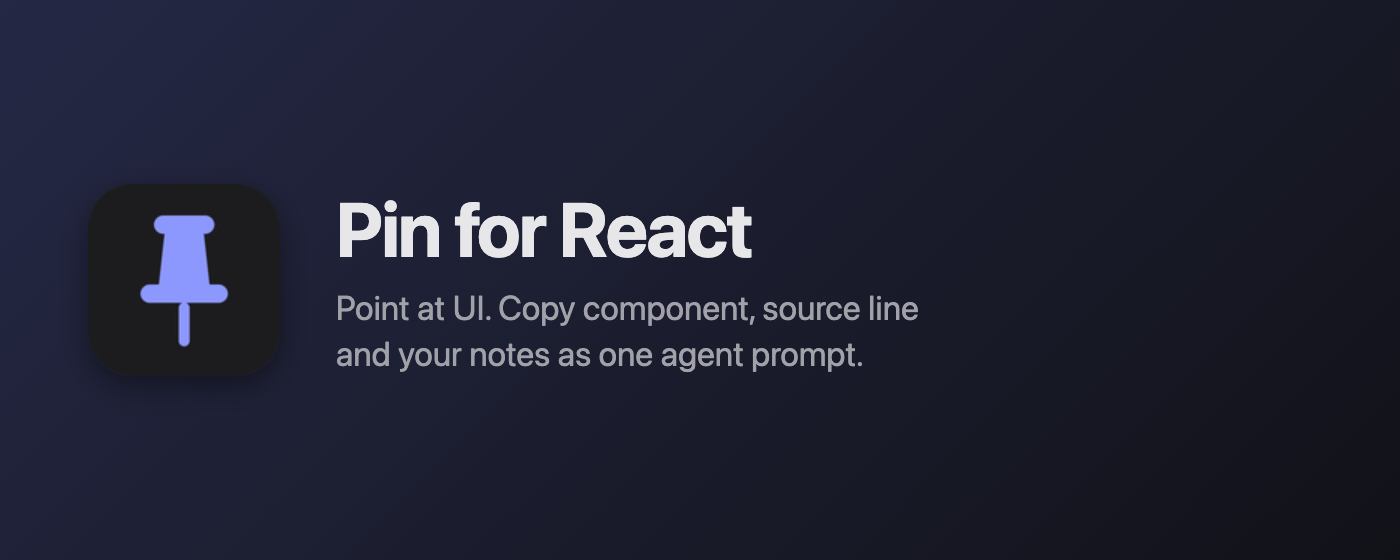
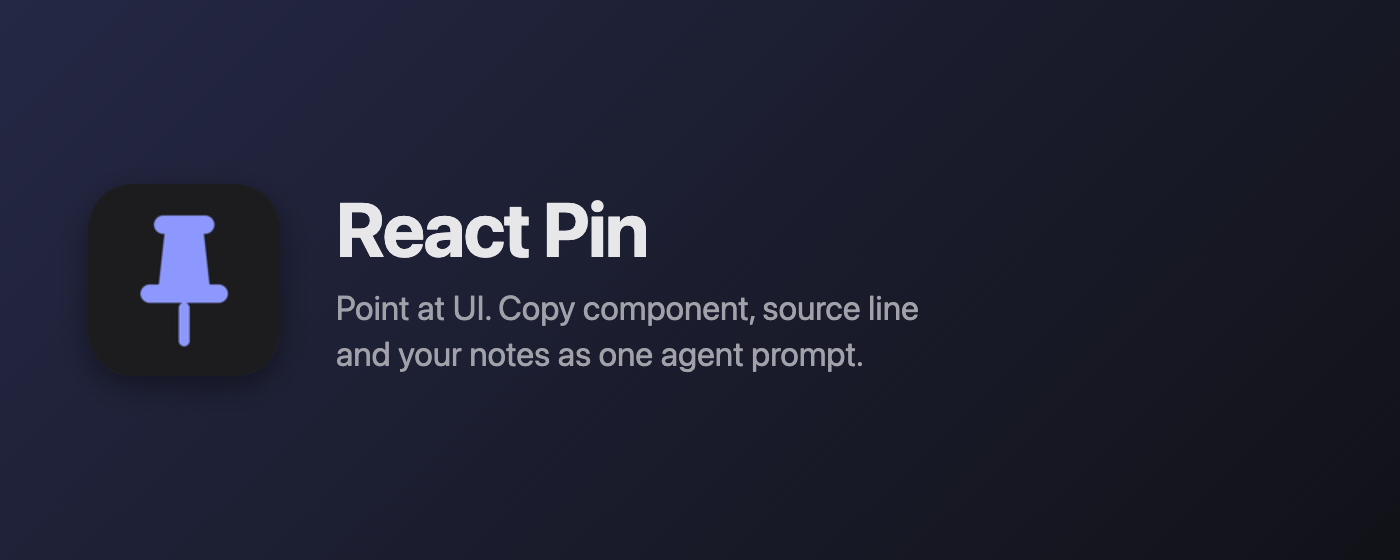
Rename to React Pin

Changed region(s): [[0.2457, 0.3339, 0.5529, 0.4857]]

diff --git a/pin.js b/pin.js
@@ -1,4 +1,4 @@
-// Pin for React: point at UI and hand it to a coding agent. Its island (bottom center, shown on
+// React Pin: point at UI and hand it to a coding agent. Its island (bottom center, shown on
 // local dev servers) has a Pin toggle and can be dragged to any edge; dragging it out of the window
 // hides it for the site, and the extension's toolbar button shows it again (or on any other site).
 //   The toggle shortcut (⌃P on macOS, Alt+Shift+P elsewhere) turns it on or off. While on, hover
@@ -360,7 +360,7 @@
   // Shown when loaded (local dev servers, sites the user enabled, or the toolbar button), unless
   // dragged out on this site (remembered for the origin) or turned off for localhost in the options.
   // The toolbar button shows it again.
-  const HIDDEN = 'pin-for-react:hidden'
+  const HIDDEN = 'react-pin:hidden'
   const hiddenHere = () => {
     try {
       return localStorage.getItem(HIDDEN) === '1'
@@ -439,7 +439,7 @@
 
   // The island sits on one edge of the window (bottom by default) at a fraction along it. Dragging
   // moves it freely; on release it snaps to the nearest edge, and the spot is remembered.
-  const POS = 'pin-for-react:position'
+  const POS = 'react-pin:position'
   const MARGIN = 16
   let pos = { edge: 'bottom', at: 0.5 }
   try {
@@ -655,7 +655,7 @@
   // Settings and shortcut names arrive from bridge.js (asked for on load, resent on change). The
   // first ones decide whether the island shows by itself.
   let first = true
-  document.addEventListener('pin-for-react:settings', e => {
+  document.addEventListener('react-pin:settings', e => {
     try {
       settings = { ...settings, ...JSON.parse(e.detail) }
     } catch {
@@ -669,6 +669,6 @@
     renderBar()
   })
   window.__pin = api
-  document.dispatchEvent(new CustomEvent('pin-for-react:hello'))
+  document.dispatchEvent(new CustomEvent('react-pin:hello'))
   renderBar()
 })()

diff --git a/options.html b/options.html
@@ -3,7 +3,7 @@
 <head>
 <meta charset="utf-8">
 <meta name="viewport" content="width=device-width, initial-scale=1">
-<title>Pin for React options</title>
+<title>React Pin options</title>
 <style>
   :root { color-scheme: light dark; --bg: #f7f7f8; --card: #fff; --text: #1c1c1f; --dim: #6b6b74; --line: #e4e4e7; --accent: #5b67f0 }
   @media (prefers-color-scheme: dark) { :root { --bg: #121214; --card: #1c1c1f; --text: #e7e7ea; --dim: #8d8d95; --line: #2c2c31 } }
@@ -30,7 +30,7 @@
 </head>
 <body>
 <main>
-  <h1><img src="icons/48.png" alt="">Pin for React</h1>
+  <h1><img src="icons/48.png" alt="">React Pin</h1>
   <p class="sub">Point at UI and hand it to a coding agent.</p>
 
   <h2>Shortcuts</h2>
@@ -57,7 +57,7 @@
   </section>
 
   <h2>Privacy</h2>
-  <section><div class="row"><span>Nothing leaves your browser. Pin for React has no servers, analytics or tracking; it only reads the page you point it at and copies text to your clipboard. <a href="https://github.com/maxktz/pin-for-react/blob/main/PRIVACY.md" target="_blank">Privacy policy</a> · <a href="https://github.com/maxktz/pin-for-react" target="_blank">Source</a></span></div></section>
+  <section><div class="row"><span>Nothing leaves your browser. React Pin has no servers, analytics or tracking; it only reads the page you point it at and copies text to your clipboard. <a href="https://github.com/maxktz/react-pin/blob/main/PRIVACY.md" target="_blank">Privacy policy</a> · <a href="https://github.com/maxktz/react-pin" target="_blank">Source</a></span></div></section>
 </main>
 <script src="options.js"></script>
 </body>

diff --git a/bridge.js b/bridge.js
@@ -9,9 +9,9 @@
       chrome.storage.sync.get('settings'),
       chrome.runtime.sendMessage('keys').catch(() => ({})),
     ])
-    document.dispatchEvent(new CustomEvent('pin-for-react:settings', { detail: JSON.stringify({ ...settings, keys }) }))
+    document.dispatchEvent(new CustomEvent('react-pin:settings', { detail: JSON.stringify({ ...settings, keys }) }))
   }
-  document.addEventListener('pin-for-react:hello', send)
+  document.addEventListener('react-pin:hello', send)
   chrome.storage.onChanged.addListener(send)
   send()
 })()

diff --git a/store/listing.md b/store/listing.md
@@ -1,11 +1,11 @@
 # Chrome Web Store listing
 
-Everything the developer dashboard asks for, in order. Upload `dist/pin-for-react-<version>.zip`
+Everything the developer dashboard asks for, in order. Upload `dist/react-pin-<version>.zip`
 (`scripts/build.sh`).
 
 ## Store listing
 
-**Name** (from the manifest): Pin for React
+**Name** (from the manifest): React Pin
 
 **Summary** (from the manifest, 126/132 characters):
 Point at UI in your React dev server and hand it to a coding agent: component, source file:line, and your notes as one prompt.
@@ -42,7 +42,7 @@ HOW IT RUNS
 PRIVATE BY DESIGN
 No servers, accounts, analytics or tracking. It reads the page you point at and writes to your clipboard; nothing leaves your browser.
 
-Open source (MIT): https://github.com/maxktz/pin-for-react
+Open source (MIT): https://github.com/maxktz/react-pin
 
 Not affiliated with Meta or the React team.
 ```
@@ -55,8 +55,8 @@ Not affiliated with Meta or the React team.
 - Marquee promo tile (optional): `marquee-1400x560.png`
 - Promo video (optional, YouTube link only): `docs/demo.mp4` if you upload it to YouTube
 
-**Official URL:** none (needs a verified site). **Homepage URL:** https://github.com/maxktz/pin-for-react
-**Support URL:** https://github.com/maxktz/pin-for-react/issues
+**Official URL:** none (needs a verified site). **Homepage URL:** https://github.com/maxktz/react-pin
+**Support URL:** https://github.com/maxktz/react-pin/issues
 
 ## Privacy practices
 
@@ -77,7 +77,7 @@ Lets developers point at elements of a web page they are building and copy a des
 **Data usage:** check nothing. It does not collect any of the listed data types.
 Certify all three: not sold to third parties; not used for unrelated purposes; not used for creditworthiness or lending.
 
-**Privacy policy URL:** https://github.com/maxktz/pin-for-react/blob/main/PRIVACY.md
+**Privacy policy URL:** https://github.com/maxktz/react-pin/blob/main/PRIVACY.md
 
 ## Distribution
 

diff --git a/PRIVACY.md b/PRIVACY.md
@@ -1,8 +1,8 @@
 # Privacy policy
 
-_Pin for React, last updated 2026-10-12_
+_React Pin, last updated 2026-10-12_
 
-Pin for React does not collect, store, sell or share any personal data. It has no servers,
+React Pin does not collect, store, sell or share any personal data. It has no servers,
 accounts, analytics, telemetry or ads.
 
 What it does, all inside your browser:
@@ -23,5 +23,5 @@ Permissions: `activeTab` and `scripting` load it into the current tab when you c
 button or press its shortcut; `storage` keeps your settings; `contextMenus` adds "Always load on
 this site" to the toolbar button. Access to other sites is optional and asked for per site.
 
-The source code is public: https://github.com/maxktz/pin-for-react. Questions:
-https://github.com/maxktz/pin-for-react/issues
+The source code is public: https://github.com/maxktz/react-pin. Questions:
+https://github.com/maxktz/react-pin/issues

diff --git a/README.md b/README.md
@@ -1,4 +1,4 @@
-# Pin for React
+# React Pin
 
 A browser extension for pointing at UI and handing it to a coding agent (Claude Code, Codex, Cursor,
 …). Hover an element in your React dev server and copy its component and source line, or click a
